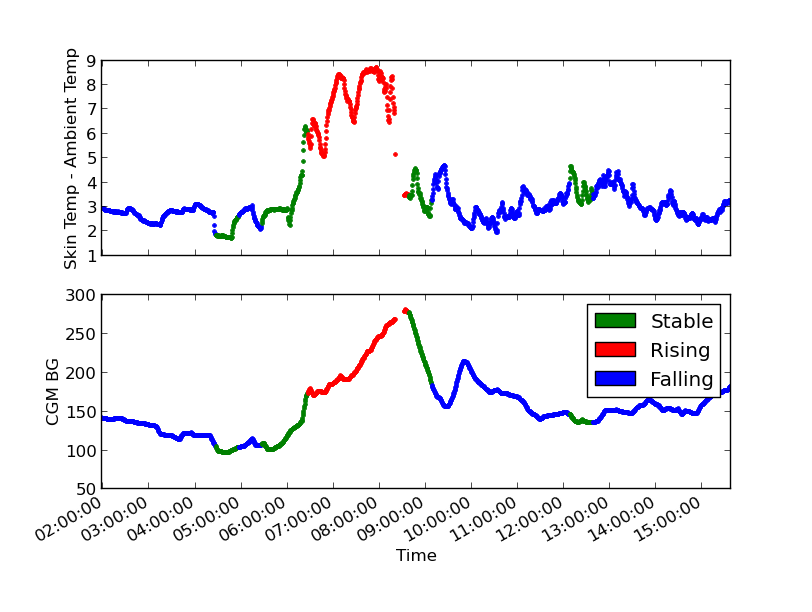
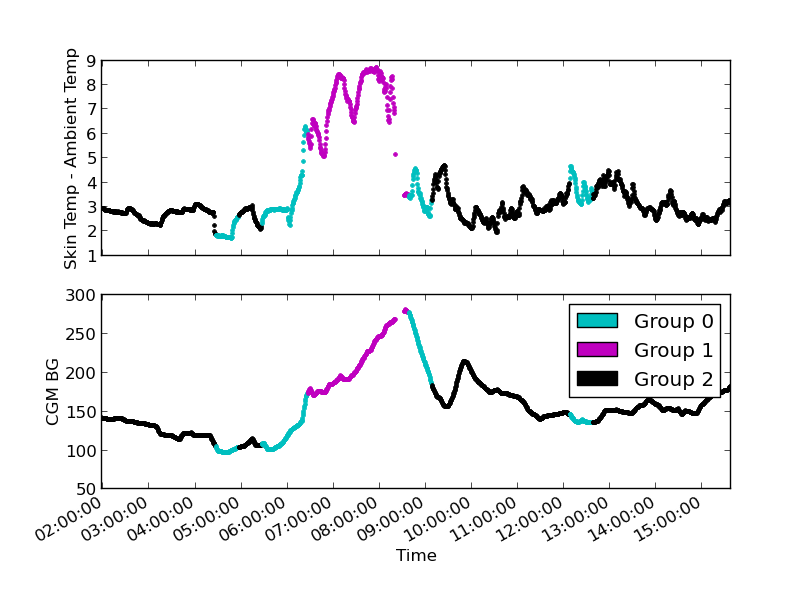
Changed color scheme on svm graphs

diff --git a/trainTestSVM.py b/trainTestSVM.py
@@ -17,7 +17,7 @@ def dateconv(date_str):
 def t1dmread(file_name):
     dtypes = np.dtype({ 'names' : ('timestamp', 'skin temp', 'air temp', 'steps', 'lying down', 'sleep', 'physical activity', 'energy', 'sedentary', 'moderate', 'vigorous', 'very vigorous', 'mets', 'hr', 'cgm', 'numlabel'),
                         'formats' : [datetime, np.float, np.float, np.int, np.int, np.float, np.int, np.float, np.int, np.int, np.int, np.int, np.float, np.int, np.int, np.int]})
-    data = np.loadtxt(file_name, delimiter=';', skiprows=1,converters = { 0 : dateconv },usecols=(0,7,10,13,17,18,19,20,21,22,23,24,25,26,27,28), dtype=dtypes)
+    data = np.loadtxt(file_name, delimiter=',', skiprows=1,converters = { 0 : dateconv },usecols=(0,7,10,13,17,18,19,20,21,22,23,24,25,26,27,28), dtype=dtypes)
     return data
 
 
@@ -33,7 +33,7 @@ def stuffPlot(timestamps,func,title,ylabel):
 
 #--------------------------------------------------
 
-data = t1dmread('trimmedDataFiles/MYFILE101.no_gaps_trimmed2.csv')
+data = t1dmread('trimmedDataFiles/MYFILE101_trimmed.csv')
 timeStamps = np.array(data['timestamp'])
 skinTemp = np.array(data['skin temp'])
 airTemp = np.array(data['air temp'])
@@ -123,13 +123,13 @@ for i in range(0,len(group_test)):
     start = i*60
     stop = (i+1)*60
     if group_test[i]==0:
-        color = 'g.'
+        color = 'c.'
         Label = 'Group 0'
     elif group_test[i]==1:
-        color = 'r.'
+        color = 'm.'
         Label = 'Group 1'
     elif group_test[i]==2:
-        color = 'b.'
+        color = 'k.'
         Label = 'Group 2'
     skinTemp.plot_date(longTestTime[start:stop],longTestSt[start:stop],color,label=Label)
     cgmFig.plot_date(longTestTime[start:stop],longTestCGM[start:stop],color,label=Label)
@@ -137,10 +137,10 @@ pl.xlabel('Time')
 fig.autofmt_xdate()
 
 #handles, labels = skinTemp.get_legend_handles_labels()
-r = pl.Rectangle((0, 0), 1, 1, fc="c")
-g = pl.Rectangle((0, 0), 1, 1, fc="m")
-b = pl.Rectangle((0, 0), 1, 1, fc="k")
-cgmFig.legend( [g,r,b], ['Group 0','Group 1','Group 2'] )
+c = pl.Rectangle((0, 0), 1, 1, fc="c")
+m = pl.Rectangle((0, 0), 1, 1, fc="m")
+k = pl.Rectangle((0, 0), 1, 1, fc="k")
+cgmFig.legend( [c,m,k], ['Group 0','Group 1','Group 2'] )
 
 pl.show()
 
